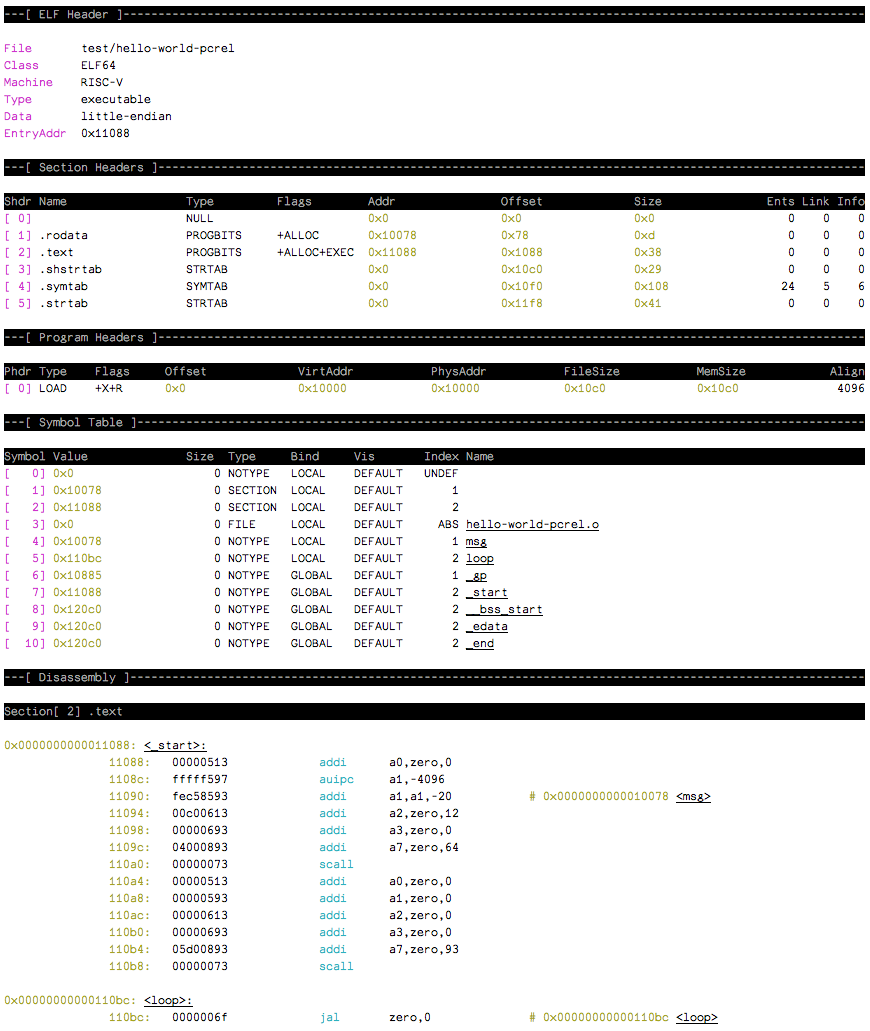
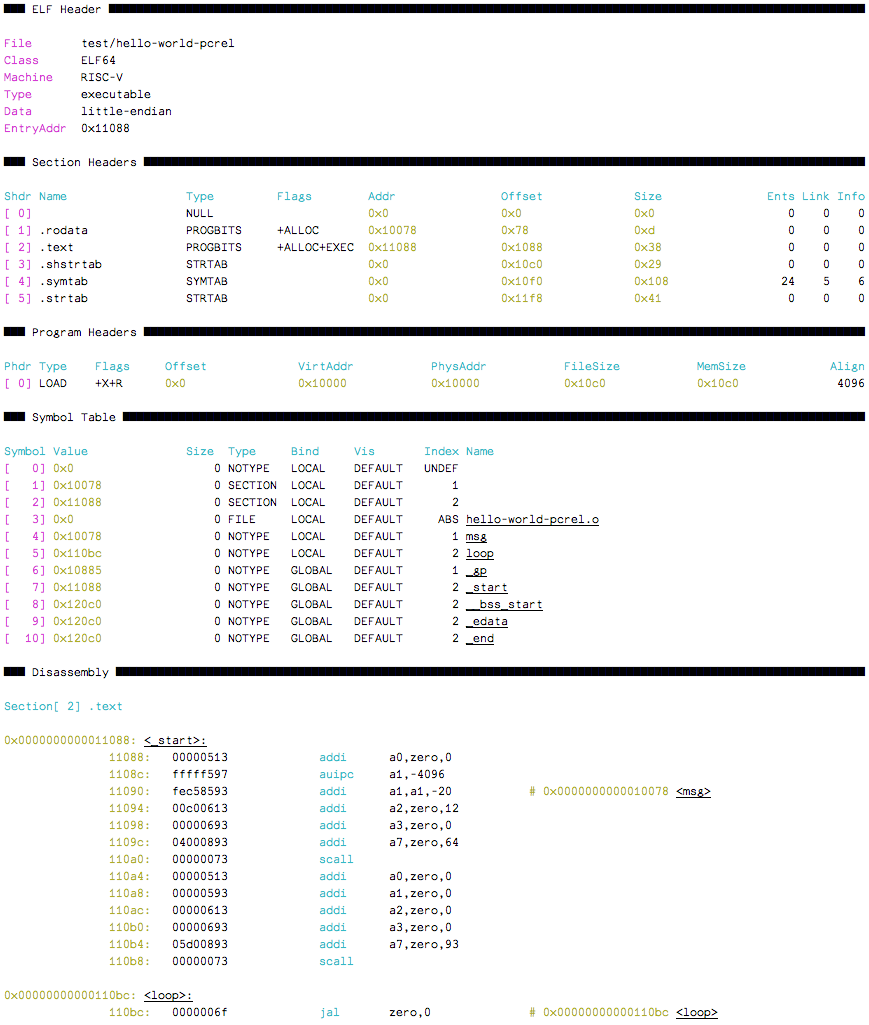
Fine tune disassembler formatting

diff --git a/app/riscv-parse-elf.cc b/app/riscv-parse-elf.cc
@@ -48,9 +48,9 @@ struct riscv_parse_elf
 		if (!enable_color || !isatty(fileno(stdout))) {
 			return "";
 		} else if (strcmp(type, "header") == 0) {
-			return _COLOR_BEGIN _COLOR_BOLD _COLOR_SEP _COLOR_FG_WHITE _COLOR_SEP _COLOR_BG_BLACK _COLOR_END;
+			return _COLOR_BEGIN _COLOR_BOLD _COLOR_END;
 		} else if (strcmp(type, "title") == 0) {
-			return _COLOR_BEGIN _COLOR_BOLD _COLOR_SEP _COLOR_FG_WHITE _COLOR_SEP _COLOR_BG_BLACK _COLOR_END;
+			return _COLOR_BEGIN _COLOR_BOLD _COLOR_SEP _COLOR_FG_CYAN _COLOR_END;
 		} else if (strcmp(type, "legend") == 0) {
 			return _COLOR_BEGIN _COLOR_BOLD _COLOR_SEP _COLOR_FG_MAGENTA _COLOR_END;
 		} else if (strcmp(type, "opcode") == 0) {
@@ -195,8 +195,8 @@ struct riscv_parse_elf
 
 	void print_heading(std::string heading)
 	{
-		printf("\n%s---[ %s ]", colorize("header"), heading.c_str());
-		for (size_t i = 0; i < 116 - heading.length(); i++) printf("-");
+		printf("\n%s███ %s ", colorize("header"), heading.c_str());
+		for (size_t i = 0; i < 118 - heading.length(); i++) printf("█");
 		printf("%s\n\n", colorize("reset"));
 	}
 
